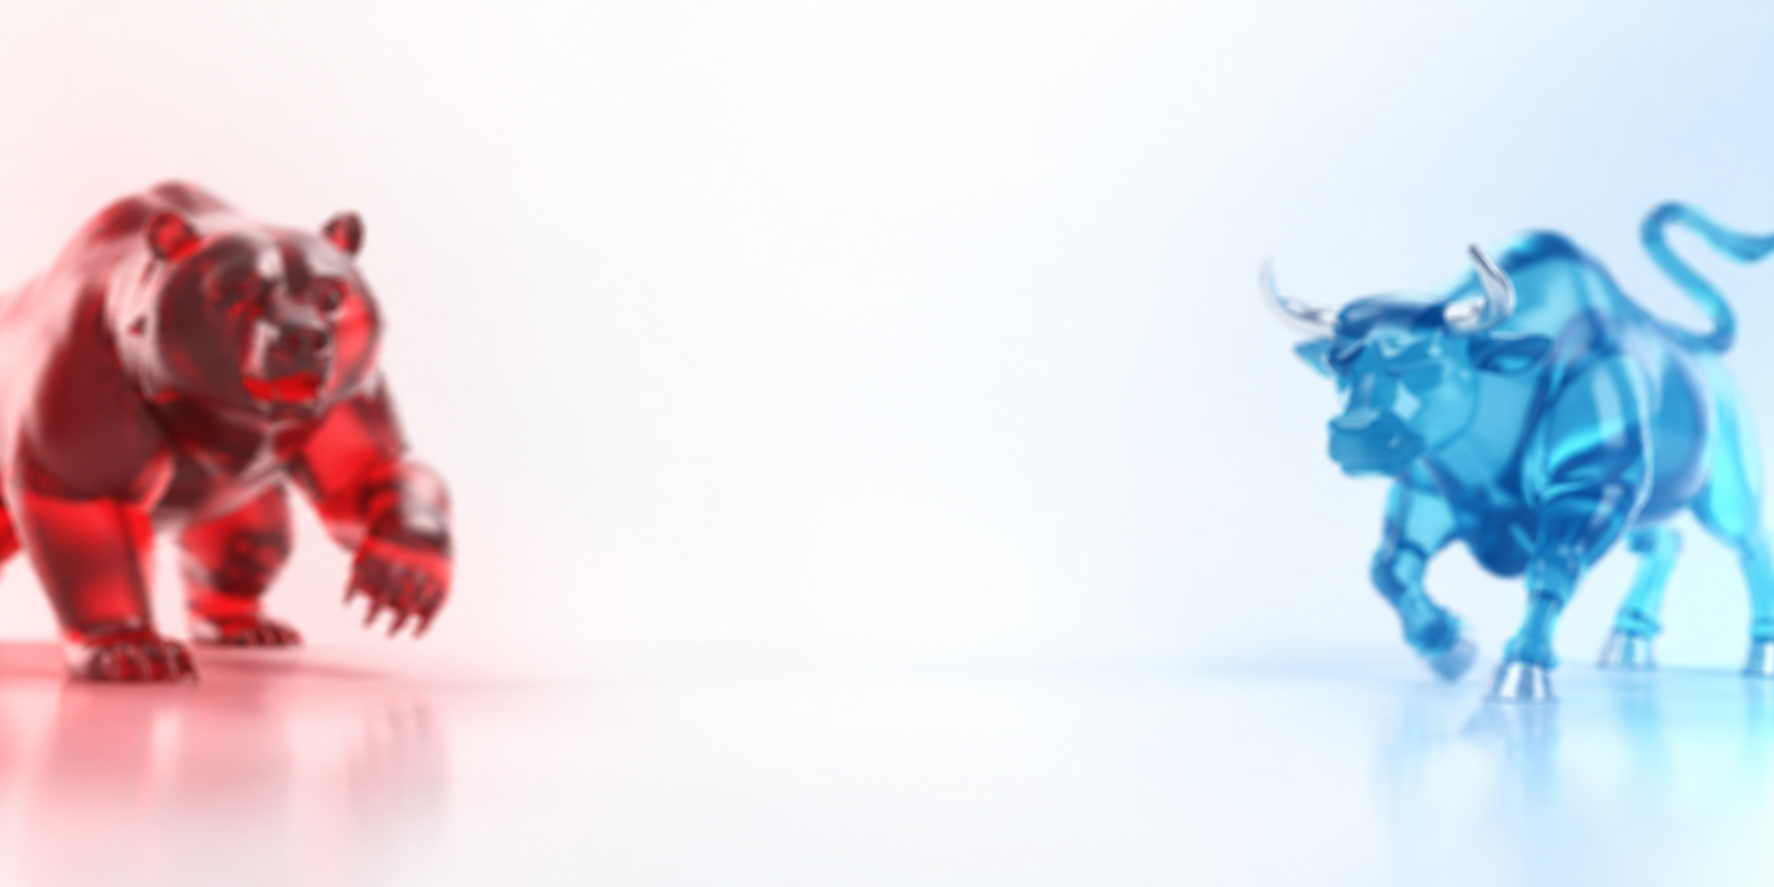
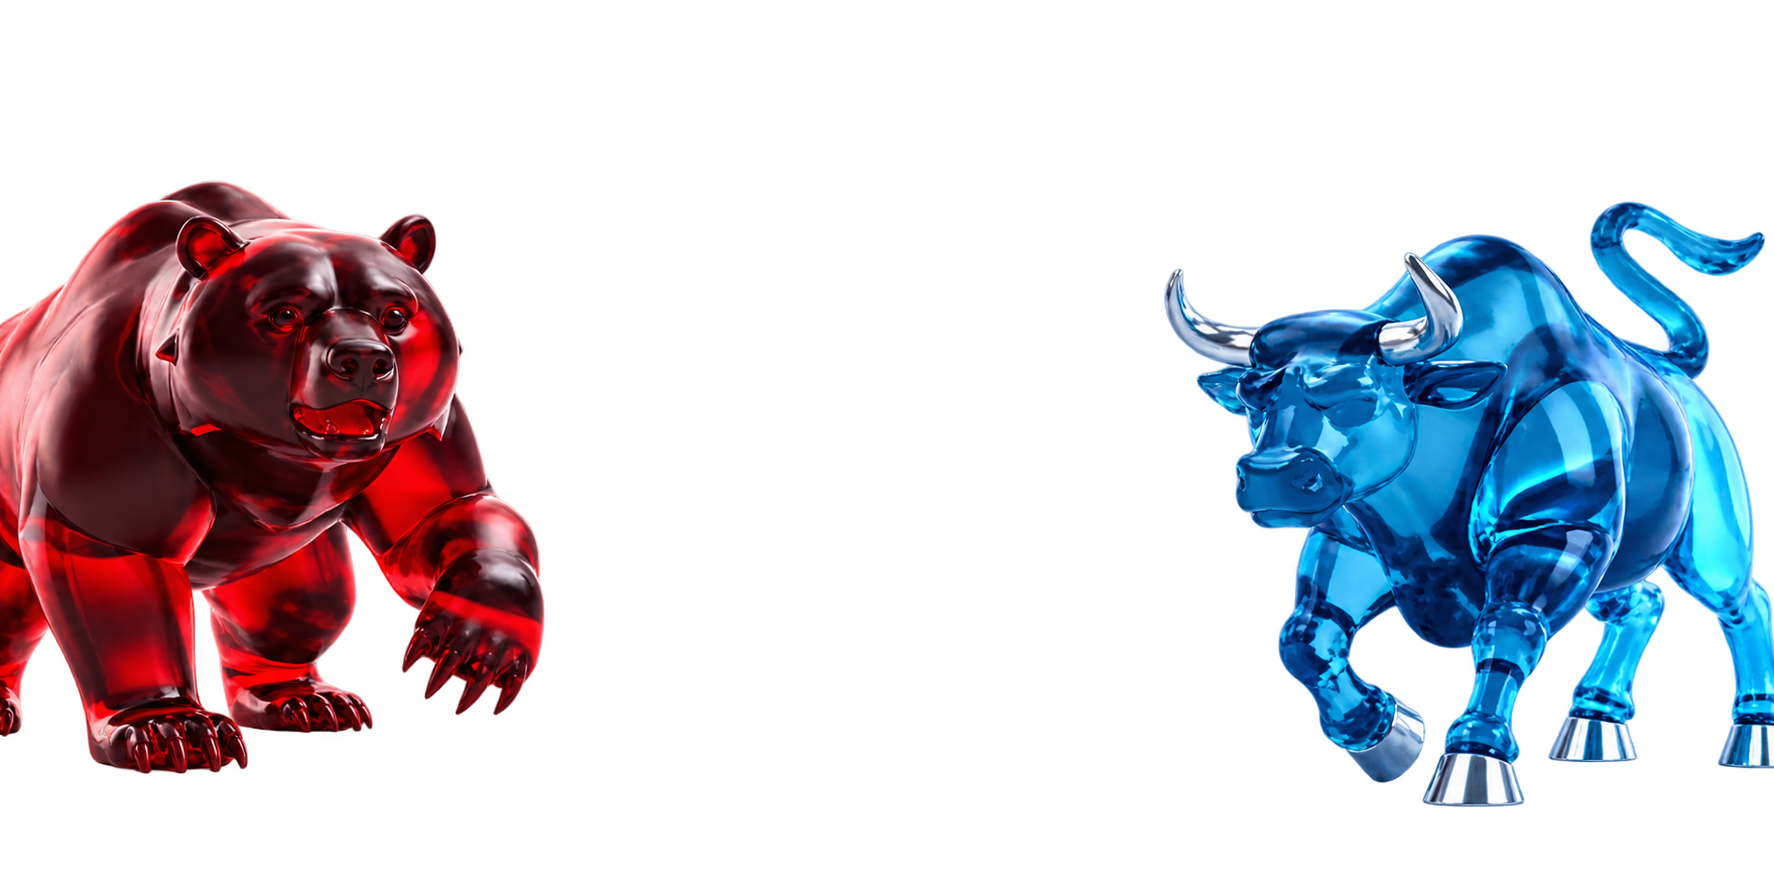
new edits

diff --git a/components/ui/animated-theme-toggler.tsx b/components/ui/animated-theme-toggler.tsx
@@ -1,0 +1,330 @@
+"use client"
+
+import { useCallback, useEffect, useRef, useState } from "react"
+import { Moon, Sun } from "lucide-react"
+import { flushSync } from "react-dom"
+
+import { cn } from "@/lib/utils"
+
+export type TransitionVariant =
+  | "circle"
+  | "square"
+  | "triangle"
+  | "diamond"
+  | "hexagon"
+  | "rectangle"
+  | "star"
+
+interface AnimatedThemeTogglerProps extends React.ComponentPropsWithoutRef<"button"> {
+  duration?: number
+  variant?: TransitionVariant
+  /** When true, the transition expands from the viewport center instead of the button center. */
+  fromCenter?: boolean
+  /**
+   * Controlled theme value. When provided, the parent owns persistence
+   * (e.g. `next-themes`) and this component will not write to localStorage.
+   */
+  theme?: "light" | "dark"
+  /** Called on toggle. Pair with `theme` for controlled usage. */
+  onThemeChange?: (theme: "light" | "dark") => void
+}
+
+function polygonCollapsed(point: string, vertexCount: number): string {
+  const pairs = Array.from({ length: vertexCount }, () => point).join(", ")
+  return `polygon(${pairs})`
+}
+
+// All coordinates are percentages of the snapshot reference box: Chrome 150
+// renders absolute px clip-path coordinates on ::view-transition-new(root)
+// unscaled on fractional display scales (e.g. Windows 150%) for the first
+// transition after load, so px values land at the wrong position (#989).
+function getThemeTransitionClipPaths(
+  variant: TransitionVariant,
+  cx: number,
+  cy: number,
+  maxRadius: number,
+  viewportWidth: number,
+  viewportHeight: number
+): [string, string] {
+  const toX = (x: number) => `${(x / viewportWidth) * 100}%`
+  const toY = (y: number) => `${(y / viewportHeight) * 100}%`
+  const point = (x: number, y: number) => `${toX(x)} ${toY(y)}`
+  // circle() percentage radii resolve against hypot(w, h) / sqrt(2) of the reference box.
+  const toRadius = (r: number) =>
+    `${(r / (Math.hypot(viewportWidth, viewportHeight) / Math.SQRT2)) * 100}%`
+
+  switch (variant) {
+    case "circle":
+      return [
+        `circle(0% at ${point(cx, cy)})`,
+        `circle(${toRadius(maxRadius)} at ${point(cx, cy)})`,
+      ]
+    case "square": {
+      const halfW = Math.max(cx, viewportWidth - cx)
+      const halfH = Math.max(cy, viewportHeight - cy)
+      const halfSide = Math.max(halfW, halfH) * 1.05
+      const end = [
+        point(cx - halfSide, cy - halfSide),
+        point(cx + halfSide, cy - halfSide),
+        point(cx + halfSide, cy + halfSide),
+        point(cx - halfSide, cy + halfSide),
+      ].join(", ")
+      return [polygonCollapsed(point(cx, cy), 4), `polygon(${end})`]
+    }
+    case "triangle": {
+      const scale = maxRadius * 2.2
+      const dx = (Math.sqrt(3) / 2) * scale
+      const verts = [
+        point(cx, cy - scale),
+        point(cx + dx, cy + 0.5 * scale),
+        point(cx - dx, cy + 0.5 * scale),
+      ].join(", ")
+      return [polygonCollapsed(point(cx, cy), 3), `polygon(${verts})`]
+    }
+    case "diamond": {
+      // Slightly larger than the view-transition circle radius so axis-aligned coverage matches the circle reveal.
+      const R = maxRadius * Math.SQRT2
+      const end = [
+        point(cx, cy - R),
+        point(cx + R, cy),
+        point(cx, cy + R),
+        point(cx - R, cy),
+      ].join(", ")
+      return [polygonCollapsed(point(cx, cy), 4), `polygon(${end})`]
+    }
+    case "hexagon": {
+      const R = maxRadius * Math.SQRT2
+      const verts: string[] = []
+      for (let i = 0; i < 6; i++) {
+        const a = -Math.PI / 2 + (i * Math.PI) / 3
+        verts.push(point(cx + R * Math.cos(a), cy + R * Math.sin(a)))
+      }
+      return [
+        polygonCollapsed(point(cx, cy), 6),
+        `polygon(${verts.join(", ")})`,
+      ]
+    }
+    case "rectangle": {
+      const halfW = Math.max(cx, viewportWidth - cx)
+      const halfH = Math.max(cy, viewportHeight - cy)
+      const end = [
+        point(cx - halfW, cy - halfH),
+        point(cx + halfW, cy - halfH),
+        point(cx + halfW, cy + halfH),
+        point(cx - halfW, cy + halfH),
+      ].join(", ")
+      return [polygonCollapsed(point(cx, cy), 4), `polygon(${end})`]
+    }
+    case "star": {
+      // Small overscan so the last frames never leave a 1px seam before the transition group ends.
+      const R = maxRadius * Math.SQRT2 * 1.03
+      const innerRatio = 0.42
+      const starPolygon = (radius: number) => {
+        const verts: string[] = []
+        for (let i = 0; i < 5; i++) {
+          const outerA = -Math.PI / 2 + (i * 2 * Math.PI) / 5
+          verts.push(
+            point(
+              cx + radius * Math.cos(outerA),
+              cy + radius * Math.sin(outerA)
+            )
+          )
+          const innerA = outerA + Math.PI / 5
+          verts.push(
+            point(
+              cx + radius * innerRatio * Math.cos(innerA),
+              cy + radius * innerRatio * Math.sin(innerA)
+            )
+          )
+        }
+        return `polygon(${verts.join(", ")})`
+      }
+      const startR = Math.max(2, R * 0.025)
+      return [starPolygon(startR), starPolygon(R)]
+    }
+    default:
+      return [
+        `circle(0% at ${point(cx, cy)})`,
+        `circle(${toRadius(maxRadius)} at ${point(cx, cy)})`,
+      ]
+  }
+}
+
+export const AnimatedThemeToggler = ({
+  className,
+  duration = 400,
+  variant,
+  fromCenter = false,
+  theme,
+  onThemeChange,
+  ...props
+}: AnimatedThemeTogglerProps) => {
+  const shape = variant ?? "circle"
+  const isControlled = theme !== undefined
+  const [internalIsDark, setInternalIsDark] = useState(false)
+  const isDark = isControlled ? theme === "dark" : internalIsDark
+  const buttonRef = useRef<HTMLButtonElement>(null)
+  const isTransitioningRef = useRef(false)
+  const activeAnimRef = useRef<Animation | null>(null)
+
+  const cancelAnim = useCallback(() => {
+    activeAnimRef.current?.cancel()
+    activeAnimRef.current = null
+  }, [])
+
+  useEffect(() => {
+    return () => {
+      cancelAnim()
+      const root = document.documentElement
+      if (root.dataset.magicuiThemeVt !== "active") return
+      delete root.dataset.magicuiThemeVt
+      root.style.removeProperty("--magicui-theme-toggle-vt-duration")
+      root.style.removeProperty("--magicui-theme-vt-clip-from")
+    }
+  }, [cancelAnim])
+
+  useEffect(() => {
+    if (isControlled) return
+
+    const updateTheme = () => {
+      setInternalIsDark(document.documentElement.classList.contains("dark"))
+    }
+
+    updateTheme()
+
+    const observer = new MutationObserver(updateTheme)
+    observer.observe(document.documentElement, {
+      attributes: true,
+      attributeFilter: ["class"],
+    })
+
+    return () => observer.disconnect()
+  }, [isControlled])
+
+  const toggleTheme = useCallback(() => {
+    const button = buttonRef.current
+    if (
+      !button ||
+      isTransitioningRef.current ||
+      document.documentElement.dataset.magicuiThemeVt === "active"
+    )
+      return
+
+    // innerWidth/innerHeight (not visualViewport): percentages must resolve
+    // against the snapshot reference box, which includes classic scrollbars.
+    const viewportWidth = window.innerWidth
+    const viewportHeight = window.innerHeight
+
+    let x: number
+    let y: number
+    if (fromCenter) {
+      x = viewportWidth / 2
+      y = viewportHeight / 2
+    } else {
+      const { top, left, width, height } = button.getBoundingClientRect()
+      x = left + width / 2
+      y = top + height / 2
+    }
+
+    const maxRadius = Math.hypot(
+      Math.max(x, viewportWidth - x),
+      Math.max(y, viewportHeight - y)
+    )
+
+    const applyTheme = () => {
+      const newTheme = !isDark
+      // Always toggle the class synchronously so the View Transitions API
+      // snapshots the new theme inside the startViewTransition callback.
+      document.documentElement.classList.toggle("dark")
+      if (isControlled) {
+        onThemeChange?.(newTheme ? "dark" : "light")
+      } else {
+        setInternalIsDark(newTheme)
+        localStorage.setItem("theme", newTheme ? "dark" : "light")
+      }
+    }
+
+    if (typeof document.startViewTransition !== "function") {
+      applyTheme()
+      return
+    }
+
+    const clipPath = getThemeTransitionClipPaths(
+      shape,
+      x,
+      y,
+      maxRadius,
+      viewportWidth,
+      viewportHeight
+    )
+
+    const root = document.documentElement
+    root.dataset.magicuiThemeVt = "active"
+    root.style.setProperty(
+      "--magicui-theme-toggle-vt-duration",
+      `${duration}ms`
+    )
+    // Pin the collapsed clip-path via CSS so Firefox does not paint the new
+    // theme unclipped between snapshot and the ready.then() JS animation.
+    root.style.setProperty("--magicui-theme-vt-clip-from", clipPath[0])
+    const cleanup = () => {
+      isTransitioningRef.current = false
+      delete root.dataset.magicuiThemeVt
+      root.style.removeProperty("--magicui-theme-toggle-vt-duration")
+      root.style.removeProperty("--magicui-theme-vt-clip-from")
+      cancelAnim()
+    }
+
+    isTransitioningRef.current = true
+    const transition = document.startViewTransition(() => {
+      flushSync(applyTheme)
+    })
+    if (typeof transition?.finished?.finally === "function") {
+      transition.finished.finally(cleanup).catch(() => {})
+    } else {
+      cleanup()
+    }
+
+    const ready = transition?.ready
+    if (ready && typeof ready.then === "function") {
+      ready
+        .then(() => {
+          const anim = document.documentElement.animate(
+            {
+              clipPath,
+            },
+            {
+              duration,
+              // Star: linear avoids easing overshoot that fights polygon interpolation at t→1; VT group duration is synced above.
+              easing: shape === "star" ? "linear" : "ease-in-out",
+              fill: "forwards",
+              pseudoElement: "::view-transition-new(root)",
+            }
+          )
+          activeAnimRef.current = anim
+        })
+        .catch(() => {})
+    }
+  }, [
+    shape,
+    fromCenter,
+    duration,
+    isDark,
+    isControlled,
+    onThemeChange,
+    cancelAnim,
+  ])
+
+  return (
+    <button
+      type="button"
+      ref={buttonRef}
+      onClick={toggleTheme}
+      className={cn(className)}
+      {...props}
+    >
+      {isDark ? <Sun /> : <Moon />}
+      <span className="sr-only">Toggle theme</span>
+    </button>
+  )
+}

diff --git a/components/hero.tsx b/components/hero.tsx
@@ -22,7 +22,18 @@ export function Hero() {
 
   return (
     <section className="relative overflow-hidden pt-20 pb-16 md:pt-28 md:pb-24 border-b border-border/40">
-      <div className="absolute inset-0 bg-grid-pattern opacity-40 pointer-events-none" />
+      {/* Background Image Layer */}
+      <div 
+        className="absolute inset-0 bg-cover bg-center bg-no-repeat opacity-20 dark:opacity-35 transition-opacity duration-300 pointer-events-none"
+        style={{ backgroundImage: "url('/hero-bg.png')" }}
+      />
+
+      {/* Adaptive Theme Gradient Mask */}
+      <div className="absolute inset-0 bg-gradient-to-b from-background/90 via-background/60 to-background pointer-events-none" />
+
+      {/* Subtle Grid Pattern Overlay */}
+      <div className="absolute inset-0 bg-grid-pattern opacity-20 dark:opacity-40 pointer-events-none" />
+
       <div className="container relative mx-auto max-w-5xl px-4 text-center">
         <div className="inline-flex items-center gap-2 rounded-full border border-primary/30 bg-primary/10 px-3 py-1 text-xs font-mono text-primary mb-8">
           <Zap className="h-3.5 w-3.5 fill-primary" />

diff --git a/app/globals.css b/app/globals.css
@@ -48,3 +48,7 @@
 .bg-primary {
   @apply border border-purple-950/80 dark:border-black/90 shadow-sm;
 }
+  ::view-transition-old(root), ::view-transition-new(root) {
+    animation: none;
+    mix-blend-mode: normal;
+}
